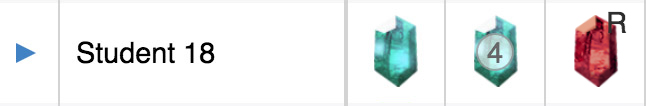
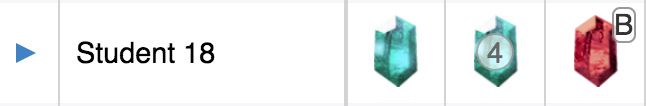
Update help for new remediation symbol

Changed region(s): [[0.9288, 0.0566, 0.9907, 0.4245]]

diff --git a/src/views/help-modal.js b/src/views/help-modal.js
@@ -72,7 +72,7 @@ const renderProgressHelp = () => {
           <figure>
             <img src="assets/img/crystals-with-numbers.jpg" alt="Crystals with numbers" />
           </figure>
-          An <span className="tip-word">R next to a crystal</span> indicates the student received remediation during the challenge.
+          A <span className="tip-word">B next to a crystal</span> indicates the student received a bonus challenge during the challenge.
         </li>
         <li>
           A <span className="tip-word">number in a crystal</span> shows how many attempts a student made on that challenge. Click the crystal to see

diff --git a/src/css/main.css b/src/css/main.css
@@ -201,9 +201,9 @@ button:hover {
   transform: translate(-50%, -50%);
   width: 640px;
   max-width: 100%;
-  height: 640px;
+  height: 6660px;
   max-height: 100%;
-  overflow: scroll;
+  overflow: none;
   padding: 20px;
   z-index: 1100;
   border: 5px solid #fee9aa;
